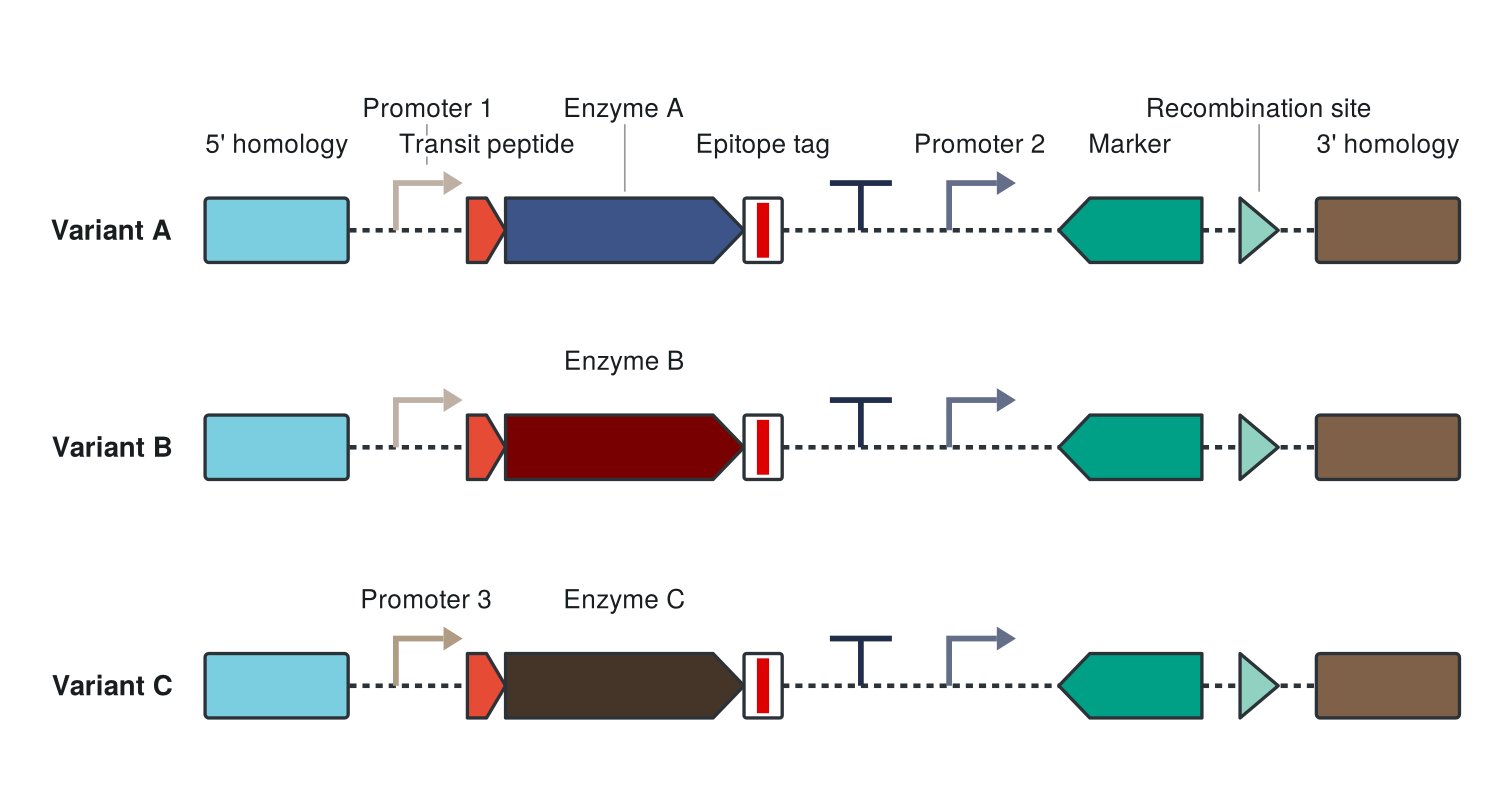
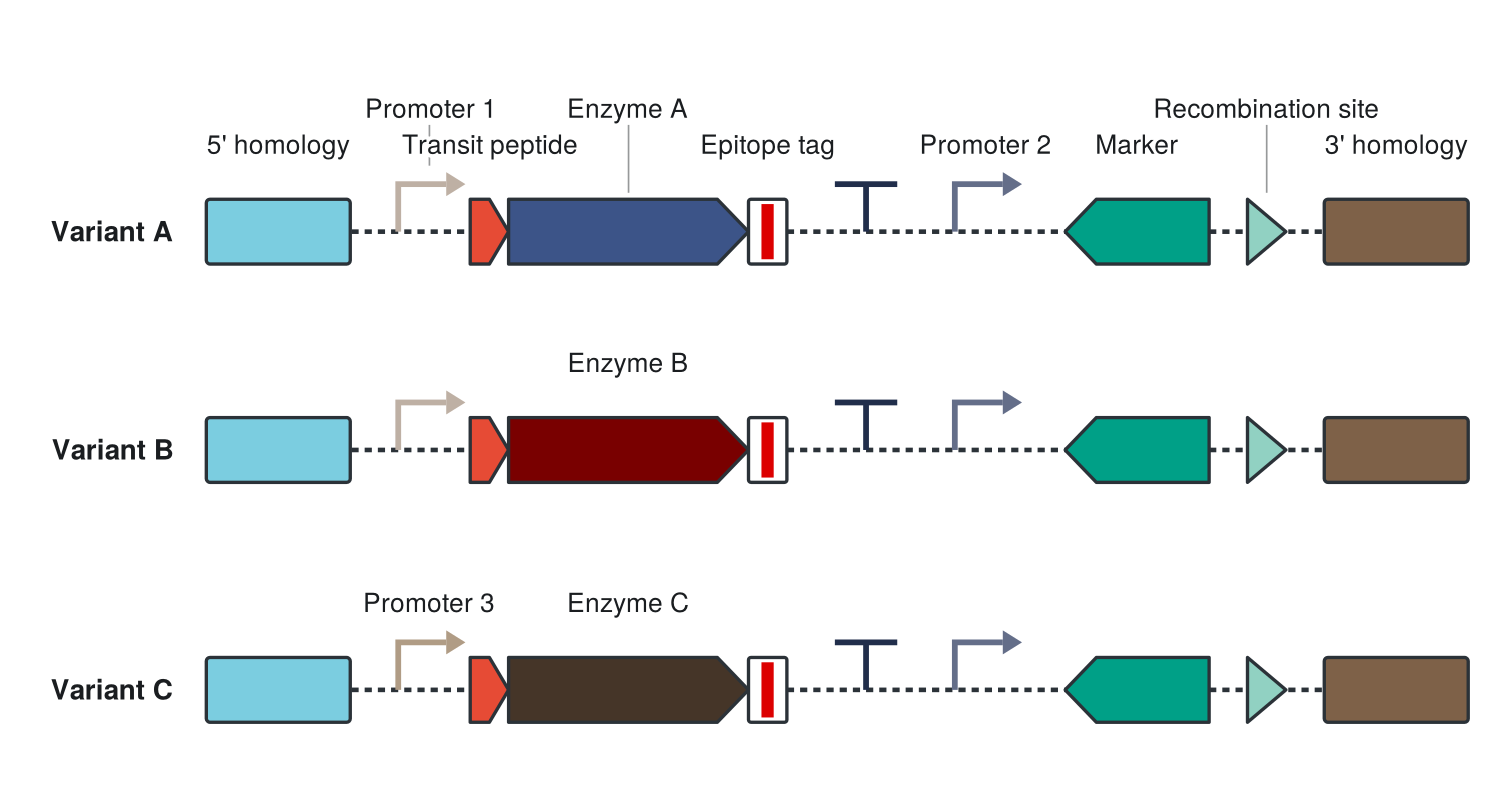
Add files via upload

diff --git a/examples/make_gallery.py b/examples/make_gallery.py
@@ -107,8 +107,16 @@ def draw(cons, name, **over):
     s.update(over)
     st, pal, _, pal_name = C.resolve_theme(s)
     res = C.assign_palette(cons, {}, pal, "theme")
-    path = C.build_figure(cons, s, res, st)[0]
-    return Image.open(io.BytesIO(cairosvg.svg2png(url=path, output_width=1500)))
+    fig = C.build_figure(cons, s, res, st)
+    # A fixed number of pixels per DRAWING UNIT, not a fixed pixel width.
+    # Rendering every panel to the same width magnified the narrow ones, so
+    # two panels meant to be compared came out at different sizes and the
+    # comparison was a lie - the join pair worst of all. cairosvg's `scale`
+    # multiplies the declared physical size (15cm), not the units, so the
+    # width has to be worked out from the viewBox.
+    png = cairosvg.svg2png(url=fig.path,
+                           output_width=max(1, round(fig.width * SCALE)))
+    return Image.open(io.BytesIO(png))
 
 
 def _font(size, bold=True):
@@ -121,37 +129,78 @@ def _font(size, bold=True):
     return ImageFont.load_default()
 
 
+# pixels per drawing unit, so every panel is rendered at one size
+SCALE = 2.4
+
 CAP_F, TIT_F = _font(26), _font(34)
 PAD, GUT, CAP_H, BORDER = 34, 34, 42, "#DDE1E4"
 
 
+_MEASURE = ImageDraw.Draw(Image.new("RGB", (8, 8)))
+
+
+def _text_w(s, font):
+    return _MEASURE.textbbox((0, 0), s, font=font)[2]
+
+
+def _wrap(text, font, width):
+    """Break a caption into lines that fit. Captions used to be drawn
+    straight out, so a long one ran into the panel beside it."""
+    lines, line = [], ""
+    for word in text.split():
+        trial = f"{line} {word}".strip()
+        if line and _text_w(trial, font) > width:
+            lines.append(line)
+            line = word
+        else:
+            line = trial
+    if line:
+        lines.append(line)
+    return lines or [""]
+
+
+LINE_H = 32
+
+
 def grid(panels, cols, out, title, cell_w=720):
     """Lay panels out on a plain white sheet, each scaled to cell_w."""
-    ims = []
-    for cap, im in panels:
-        h = max(1, round(im.height * cell_w / im.width))
-        ims.append((cap, im.resize((cell_w, h), Image.LANCZOS)))
-
-    rows = [ims[i:i + cols] for i in range(0, len(ims), cols)]
-    row_h = [max(im.height for _, im in r) + CAP_H for r in rows]
-    top = PAD + (54 if title else 0)
+    # Panels side by side are scaled by the widest in their row, not each
+    # to the full cell. Scaling each to fill its own cell blew up the
+    # narrower one, so a pair meant to be compared came out at different
+    # sizes and the comparison lied.
+    groups = [panels[i:i + cols] for i in range(0, len(panels), cols)]
+    rows = []
+    for g in groups:
+        f = cell_w / max(im.width for _, im in g)
+        rows.append([(_wrap(cap, CAP_F, cell_w - 4) if cap else [],
+                      im.resize((max(1, round(im.width * f)),
+                                 max(1, round(im.height * f))), Image.LANCZOS))
+                     for cap, im in g])
+    # every row gives its captions the same height, so the panels in it
+    # start on the same line whatever their captions needed
+    cap_h = [max((len(c) for c, _ in r), default=0) * LINE_H + 10 for r in rows]
+    row_h = [max(im.height for _, im in r) + ch for r, ch in zip(rows, cap_h)]
     W = PAD * 2 + cols * cell_w + (cols - 1) * GUT
+    title_lines = _wrap(title, TIT_F, W - PAD * 2) if title else []
+    top = PAD + (len(title_lines) * 44 + 12 if title_lines else 0)
     H = top + sum(row_h) + GUT * (len(rows) - 1) + PAD
 
     sheet = Image.new("RGB", (W, H), "white")
     d = ImageDraw.Draw(sheet)
-    if title:
-        d.text((PAD, PAD - 6), title, font=TIT_F, fill="#15181B")
+    for i, ln in enumerate(title_lines):
+        d.text((PAD, PAD - 6 + i * 44), ln, font=TIT_F, fill="#15181B")
 
     y = top
-    for r, rh in zip(rows, row_h):
+    for r, ch, rh in zip(rows, cap_h, row_h):
         x = PAD
         for cap, im in r:
-            if cap:
-                d.text((x + 2, y + 4), cap, font=CAP_F, fill="#2B3034")
-            sheet.paste(im, (x, y + CAP_H))
-            d.rectangle([x, y + CAP_H, x + im.width - 1,
-                         y + CAP_H + im.height - 1], outline=BORDER)
+            for i, ln in enumerate(cap):
+                assert _text_w(ln, CAP_F) <= cell_w, f"caption too wide: {ln!r}"
+                d.text((x + 2, y + 4 + i * LINE_H), ln, font=CAP_F,
+                       fill="#2B3034")
+            sheet.paste(im, (x, y + ch))
+            d.rectangle([x, y + ch, x + im.width - 1, y + ch + im.height - 1],
+                        outline=BORDER)
             x += cell_w + GUT
         y += rh + GUT
 

diff --git a/tests/test_review_fixes.py b/tests/test_review_fixes.py
@@ -525,6 +525,35 @@ check(_s5["outfile"] == "=figure.svg",
       "outfile written as =figure.svg reads back unchanged",
       repr(_s5["outfile"]))
 
+# ------------------------------------------------- one way to install
+print("== the install instructions do not contradict themselves ==")
+_rdme = open(os.path.join(ROOT, "README.md"), encoding="utf-8").read()
+_blocks = re.findall(r"```bash\n(.*?)```", _rdme, re.S)
+check(_blocks, "the README has a bash block")
+if _blocks:
+    check("requirements.txt" in _blocks[0],
+          "the first command block installs from requirements.txt",
+          _blocks[0].strip().splitlines()[0][:40])
+    _installers = [b for b in _blocks if "pip install" in b]
+    _recipes = {tuple(l.strip() for l in b.strip().splitlines()
+                      if l.strip().startswith(("pip ", "git ", "cd ")))
+                for b in _installers}
+    check(len(_recipes) <= 1,
+          "there is only one install recipe, not two that differ",
+          f"{len(_recipes)} different ones")
+check("pip install -r requirements.txt" in _rdme,
+      "it points at requirements.txt, so the dependency list has one home")
+
+# ------------------------------------------------- the gallery is legible
+print("== the gallery panels are built to be comparable ==")
+_gal = open(os.path.join(ROOT, "examples", "make_gallery.py"),
+            encoding="utf-8").read()
+check("_wrap(" in _gal and "caption too wide" in _gal,
+      "captions are wrapped to the cell and asserted, not drawn blind")
+check("output_width=max(1, round(fig.width * SCALE))" in _gal,
+      "panels are rendered at a fixed scale per drawing unit",
+      "so two panels side by side can be compared")
+
 # ------------------------------------------------- the note is findable
 print("== known issues are written down and easy to find ==")
 _ki = os.path.join(ROOT, "KNOWN_ISSUES.md")

diff --git a/README.md b/README.md
@@ -8,37 +8,37 @@ Each row of the workbook is one part. Rows sharing a name become one
 construct. The look is set by one word in the settings sheet.
 
 ```bash
-pip install openpyxl
-python3 cistron.py
-```
-
-No arguments needed. `constructs.xlsx` ships filled in with three example
-constructs and is the file you edit.
-
-> **[Known issues](KNOWN_ISSUES.md)** — six of them, all measured, none
-> reached by the default settings. Worth a minute before you file a bug.
-
----
-
-## Install
-
-There is one required dependency. Open a terminal and paste these four lines:
-
-```bash
 git clone https://github.com/KaianTeles/cistron.git
 cd cistron
 pip install -r requirements.txt
 python3 cistron.py
 ```
 
-That writes `figure.svg` next to `constructs.xlsx`. If `pip` is not found, use
-`pip3`; if `python3` is not found, use `python`. Python 3.8 or newer — macOS
-and most Linux installs already have it, and on Windows the installer at
-[python.org](https://www.python.org/downloads/) works (tick *Add Python to
-PATH*).
+That is the whole of it. One dependency, `openpyxl`, and no arguments:
+`constructs.xlsx` ships filled in with three example constructs and is the
+file you edit. The figure lands beside it.
 
-**Don't want to use git?** Click *Code → Download ZIP* at the top of this page,
-unzip it, then `cd` into the folder and run the last two lines.
+No git? [Download the ZIP](../../archive/refs/heads/main.zip), unzip it, and
+run the last two lines inside the folder. If `pip` is not found use `pip3`,
+and if `python3` is not found use `python`. Python 3.8 or newer.
+
+> **[Known issues](KNOWN_ISSUES.md)** — five of them, all measured, none
+> reached by the default settings. Worth a minute before you file a bug.
+
+---
+
+## Install
+
+The four lines at the top of this page are the whole installation. What they
+need:
+
+| | |
+|---|---|
+| **Python 3.8 or newer** | macOS and most Linux installs already have it. On Windows, the installer at [python.org](https://www.python.org/downloads/) works — tick *Add Python to PATH* |
+| **openpyxl** | the one dependency, installed by `pip install -r requirements.txt` |
+
+Nothing else is required, and nothing is installed system-wide beyond that
+one package.
 
 ### Optional extras
 

diff --git a/CHANGELOG.md b/CHANGELOG.md
@@ -23,6 +23,20 @@ First public release.
 
 ### Fixed before publishing
 
+- the gallery drew its captions without measuring them, so a long one ran
+  straight into the panel beside it; captions now wrap to the cell and the
+  generator refuses to draw one that does not fit
+- every gallery panel was rendered to the same pixel width, which magnified
+  the narrower ones - so the two panels of the `join` pair, whose whole
+  point is the difference between them, came out at different sizes. They
+  are rendered at a fixed scale per drawing unit now, and are comparable
+- the README gave two different install recipes, one at the top and one
+  under Install, and the shorter one did not fetch the files at all
+- the repository was rebuilt on a single commit: rebuilding the gallery
+  had committed about 2 MB of PNG each time, and the history had grown
+  to 12 MB for 140 KB of code. What was found and fixed is recorded
+  here rather than in the commit log
+
 - the colour check compared the colours chosen, not the colours painted. A
   `tint` style washes every fill 58 per cent towards the background, which
   squeezes them about two and a half times closer, so two parts could come

diff --git a/KNOWN_ISSUES.md b/KNOWN_ISSUES.md
@@ -93,14 +93,6 @@ move in the `colors` sheet; a pin is never touched.
 
 ---
 
-### 6. The repository carries its gallery history
-
-Each rebuild of `examples/` commits about 2 MB of PNG, so the git history
-is larger than the code warrants. It costs nothing at runtime and only
-matters if you mind the clone size.
-
----
-
 ## Reporting something else
 
 If a figure comes out wrong, `python3 cistron.py --check` prints what the
